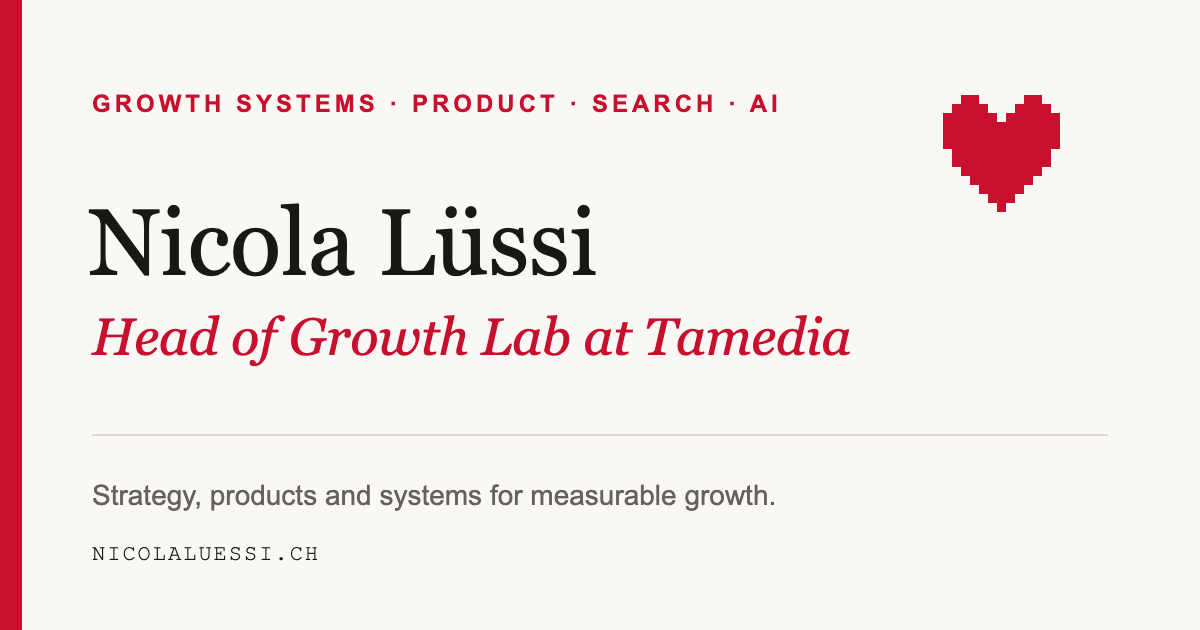
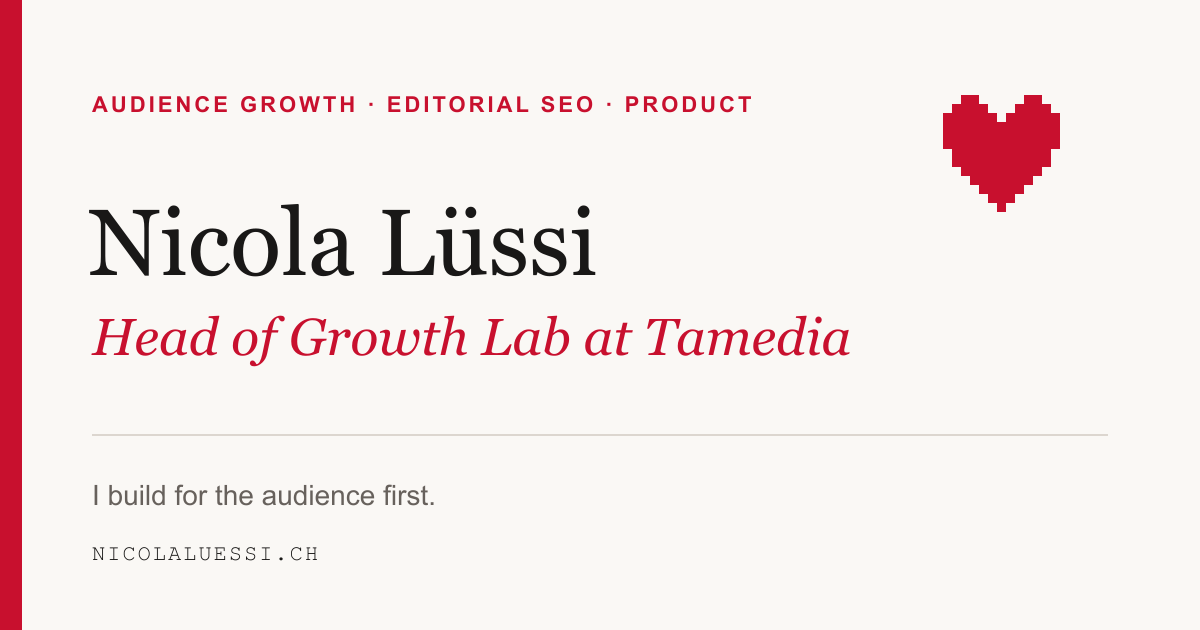
Rewrite English site in a direct voice

diff --git a/index.html b/index.html
@@ -4,30 +4,30 @@
   <meta charset="utf-8">
   <meta name="viewport" content="width=device-width, initial-scale=1">
   <title>Nicola Lüssi | Head of Growth Lab at Tamedia</title>
-  <meta name="description" content="Nicola Lüssi is Head of Growth Lab at Tamedia with deep expertise in Google Discover, SEO, audience growth, product and AI.">
+  <meta name="description" content="Nicola Lüssi leads Tamedia's Growth Lab and works across audience growth, editorial SEO, product, automation and AI.">
   <meta name="author" content="Nicola Lüssi">
   <meta name="theme-color" content="#c8102e">
 
   <link rel="canonical" href="https://nicolaluessi.ch/">
 
   <meta property="og:type" content="profile">
-  <meta property="og:title" content="Nicola Lüssi | Growth, Search, Product &amp; AI">
-  <meta property="og:description" content="Head of Growth Lab at Tamedia with deep expertise in Google Discover, SEO, audience growth, product and AI.">
+  <meta property="og:title" content="Nicola Lüssi | Audience Growth, Editorial SEO &amp; Product">
+  <meta property="og:description" content="Nicola Lüssi leads Tamedia's Growth Lab and works across audience growth, editorial SEO, product, automation and AI.">
   <meta property="og:url" content="https://nicolaluessi.ch/">
   <meta property="og:site_name" content="Nicola Lüssi">
   <meta property="og:locale" content="en_US">
   <meta property="og:image" content="https://nicolaluessi.ch/og-image.png">
   <meta property="og:image:width" content="1200">
   <meta property="og:image:height" content="630">
-  <meta property="og:image:alt" content="Nicola Lüssi | growth, search, product and AI">
+  <meta property="og:image:alt" content="Nicola Lüssi | audience growth, editorial SEO and product">
   <meta property="profile:first_name" content="Nicola">
   <meta property="profile:last_name" content="Lüssi">
 
   <meta name="twitter:card" content="summary_large_image">
-  <meta name="twitter:title" content="Nicola Lüssi | Growth, Search, Product &amp; AI">
-  <meta name="twitter:description" content="Head of Growth Lab at Tamedia with deep expertise in Google Discover, SEO, audience growth, product and AI.">
+  <meta name="twitter:title" content="Nicola Lüssi | Audience Growth, Editorial SEO &amp; Product">
+  <meta name="twitter:description" content="Nicola Lüssi leads Tamedia's Growth Lab and works across audience growth, editorial SEO, product, automation and AI.">
   <meta name="twitter:image" content="https://nicolaluessi.ch/og-image.png">
-  <meta name="twitter:image:alt" content="Nicola Lüssi | growth, search, product and AI">
+  <meta name="twitter:image:alt" content="Nicola Lüssi | audience growth, editorial SEO and product">
 
   <link rel="icon" href="/favicon.png" type="image/png">
   <link rel="apple-touch-icon" href="/apple-touch-icon.png">
@@ -52,7 +52,7 @@
         "@id": "https://nicolaluessi.ch/#webpage",
         "url": "https://nicolaluessi.ch/",
         "name": "Nicola Lüssi | Head of Growth Lab at Tamedia",
-        "description": "Profile of Nicola Lüssi, Head of Growth Lab at Tamedia and a growth leader working across strategy, product, search, data and AI.",
+        "description": "Profile of Nicola Lüssi, Head of Growth Lab at Tamedia, working across audience growth, editorial SEO, product, automation and AI.",
         "inLanguage": "en",
         "dateCreated": "2026-03-25T11:02:04+01:00",
         "dateModified": "2026-07-29T09:36:51+02:00",
@@ -72,7 +72,7 @@
           "caption": "Portrait of Nicola Lüssi"
         },
         "jobTitle": "Head of Growth Lab",
-        "description": "Growth leader building teams, products and operating systems across strategy, search, data, automation and AI.",
+        "description": "Head of Growth Lab at Tamedia, working across audience growth, editorial SEO, product, automation and AI.",
         "worksFor": {
           "@type": "Organization",
           "name": "Tamedia",
@@ -91,29 +91,43 @@
             "url": "https://www.fhnw.ch/"
           }
         ],
-        "hasCredential": {
-          "@type": "EducationalOccupationalCredential",
-          "name": "Bachelor of Science FHNW in Business Administration (International Management)",
-          "credentialCategory": "degree",
-          "description": "Final grade 5.3 out of 6.0. Bachelor thesis grade 6.0 out of 6.0 on the Swiss grading scale.",
-          "recognizedBy": {
-            "@type": "CollegeOrUniversity",
-            "name": "University of Applied Sciences and Arts Northwestern Switzerland",
-            "alternateName": "FHNW",
-            "url": "https://www.fhnw.ch/"
+        "hasCredential": [
+          {
+            "@type": "EducationalOccupationalCredential",
+            "name": "Bachelor of Science FHNW in Business Administration (International Management)",
+            "credentialCategory": "degree",
+            "description": "Final grade 5.3 out of 6.0. Bachelor thesis grade 6.0 out of 6.0 on the Swiss grading scale.",
+            "recognizedBy": {
+              "@type": "CollegeOrUniversity",
+              "name": "University of Applied Sciences and Arts Northwestern Switzerland",
+              "alternateName": "FHNW",
+              "url": "https://www.fhnw.ch/"
+            }
+          },
+          {
+            "@type": "EducationalOccupationalCredential",
+            "name": "Cambridge English: C2 Proficiency",
+            "credentialCategory": "certificate",
+            "description": "Score 222. Issued February 2022.",
+            "recognizedBy": {
+              "@type": "Organization",
+              "name": "Cambridge English",
+              "url": "https://www.cambridgeenglish.org/"
+            }
           }
-        },
+        ],
         "knowsLanguage": ["de", "en", "fr"],
         "knowsAbout": [
-          "Growth strategy",
+          "Audience growth",
+          "Editorial SEO",
           "Product development",
           "Search engine optimization",
           "Google Discover",
           "Data-driven experimentation",
           "Artificial intelligence",
           "Automation",
-          "Organizational change",
-          "Audience development"
+          "Community building",
+          "E-commerce"
         ],
         "award": "INMA 30 Under 30 Award in Management (2025)",
         "sameAs": [
@@ -146,7 +160,7 @@
     </a>
     <nav class="primary-nav" aria-label="Main navigation">
       <a href="#about">About</a>
-      <a href="#impact">Impact</a>
+      <a href="#impact">Work</a>
       <a href="#experience">Experience</a>
       <a href="#contact">Contact</a>
     </nav>
@@ -155,11 +169,11 @@
   <main id="main">
     <section class="hero" aria-labelledby="hero-title">
       <div class="hero-copy">
-        <p class="eyebrow">Growth systems · Product thinking · Search &amp; AI</p>
-        <h1 id="hero-title">Turning complex growth problems into <em>systems that scale.</em></h1>
-        <p class="hero-intro">I lead the Growth Lab at Tamedia, building teams, products, workflows and experiments where content, data and technology meet. My strongest work makes expertise usable across an organisation instead of trapping it in one specialist function.</p>
+        <p class="eyebrow">Audience growth · Editorial SEO · Product &amp; automation</p>
+        <h1 id="hero-title">I build for <em>the audience first.</em></h1>
+        <p class="hero-intro">I lead the Growth Lab at Tamedia. We find audience opportunities, test ideas and turn the useful ones into products, workflows and everyday practice. My background is in editorial SEO, community building and e-commerce.</p>
         <div class="hero-actions">
-          <a class="button button-primary" href="#impact">See the evidence</a>
+          <a class="button button-primary" href="#impact">See the work</a>
           <a class="button button-secondary" href="mailto:me@nicolaluessi.ch">Get in touch</a>
         </div>
       </div>
@@ -209,41 +223,41 @@
 
     <section class="section about" id="about" aria-labelledby="about-title">
       <div class="section-heading">
-        <p class="eyebrow">About</p>
-        <h2 id="about-title">I build systems that make growth repeatable.</h2>
+        <p class="eyebrow">Profile</p>
+        <h2 id="about-title">About Nicola Lüssi</h2>
       </div>
       <div class="about-layout">
         <div class="about-copy">
-          <p>My work is grounded in news media, but the underlying problems are not media-specific: finding demand, building useful products, automating workflows, changing behaviour and scaling what works.</p>
-          <p>I came to growth by building for specific audiences. I co-founded Hockey News Schweiz and built its Swiss ice-hockey community on social media, ran an e-commerce business and worked across content, marketing and search. The common thread was starting with the audience rather than my own preferences: understanding demand, then building something people would actually use.</p>
-          <p>I am based in Switzerland and work comfortably across German, English and French. I care about clear thinking, direct feedback and outcomes that survive beyond the original project team.</p>
+          <p>My work sits between editorial, data and product. I look for real audience problems, test useful responses and put what works into daily use.</p>
+          <p>My route into growth was not conventional. I co-founded Hockey News Schweiz and built a Swiss ice-hockey community on Facebook and Instagram. I later co-founded and ran Ballers, a sports-merchandise e-commerce business. The product was never the starting point. The audience was.</p>
+          <p>I am based in Switzerland and work in German, English and French. I prefer clear thinking, direct feedback and work that remains useful after the project is over.</p>
         </div>
         <dl class="about-facts">
           <div><dt>Based in</dt><dd>Switzerland</dd></div>
           <div><dt>Languages</dt><dd>German · English · French</dd></div>
-          <div><dt>Working across</dt><dd>Strategy · Product · Data · AI</dd></div>
-          <div><dt>Operating principle</dt><dd>Hypothesise · Test · Implement · Scale</dd></div>
+          <div><dt>Working across</dt><dd>Editorial · Data · Product · Search</dd></div>
+          <div><dt>How I work</dt><dd>Understand · Test · Build · Improve</dd></div>
         </dl>
       </div>
     </section>
 
     <section class="section" id="impact" aria-labelledby="impact-title">
       <div class="section-heading">
-        <p class="eyebrow">Selected impact</p>
-        <h2 id="impact-title">Proof before promises.</h2>
-        <p>The work matters more than the title. These are the projects that best show how I approach growth.</p>
+        <p class="eyebrow">Work</p>
+        <h2 id="impact-title">Selected work</h2>
+        <p>These four projects show what I have built and how I work.</p>
       </div>
 
       <div class="impact-grid">
         <article class="impact-card impact-card-featured">
           <div class="card-number" aria-hidden="true">01</div>
-          <p class="card-kicker">Tamedia · SEO transformation</p>
-          <h3>Turning SEO from specialist knowledge into newsroom practice</h3>
-          <p>As Head SEO, I led one evolving core team while building editorial SEO practices from the ground up across other Tamedia newsrooms and brands. This covered hiring, role design, rules, concepts and operating models. I also led Tamedia’s eight-week “Reach Offensive”. We then institutionalised it as an ongoing cross-functional Reach Team, which I helped conceptualise and build, including its roles, responsibilities, workflows and shift design. More than 600 journalists and producers were trained and supported with dashboards and CMS-integrated tools.</p>
+          <p class="card-kicker">Tamedia · Editorial SEO</p>
+          <h3>Editorial SEO across Tamedia</h3>
+          <p>As Head SEO, I built editorial SEO practices from the ground up across Tamedia newsrooms and brands. That included roles, guidelines, workflows, training, dashboards and CMS-integrated tools. I led the eight-week “Reach Offensive” and helped establish the permanent cross-functional Reach Team that followed. More than 600 journalists and producers were trained.</p>
           <ul class="outcome-list">
             <li><strong>Editorial SEO practices</strong> built from the ground up across newsrooms and brands</li>
             <li><strong>600+ participants</strong> across editorial teams</li>
-            <li><strong>Ongoing Reach Team</strong> established beyond the eight-week launch</li>
+            <li><strong>Permanent Reach Team</strong> established after the eight-week initiative</li>
           </ul>
           <a class="text-link" href="https://www.inma.org/blogs/main/post.cfm/inma-recognises-global-news-media-s-next-generation-in-30-under-30-awards" target="_blank" rel="noopener noreferrer">
             Read the independent INMA profile <span aria-hidden="true">↗</span>
@@ -253,18 +267,18 @@
         <article class="impact-card">
           <div class="card-number" aria-hidden="true">02</div>
           <p class="card-kicker">Tamedia · Growth Lab</p>
-          <h3>Expanding from search optimisation to audience growth</h3>
-          <p>In 2026, I took the lead of Tamedia's newly founded Growth Lab. The team combines editorial expertise, content strategy, data and product thinking to identify audience opportunities, formulate hypotheses, test ideas and transfer what works into daily operations.</p>
+          <h3>Building the Growth Lab</h3>
+          <p>In 2026, I became Head of Tamedia's newly created Growth Lab. We work across editorial, content strategy, data and product to find audience opportunities, test ideas and put the useful ones into practice.</p>
           <ul class="tag-list" aria-label="Topics">
-            <li>Strategy</li><li>Experimentation</li><li>Leadership</li>
+            <li>Audience growth</li><li>Experiments</li><li>Product</li>
           </ul>
         </article>
 
         <article class="impact-card">
           <div class="card-number" aria-hidden="true">03</div>
           <p class="card-kicker">Tamedia · Briefing Kitchen</p>
-          <h3>Turning fragmented signals into one daily editorial decision layer</h3>
-          <p>Briefing Kitchen began as my idea. I laid its foundation, my team developed it into what it is today, and I remain responsible for it. The AI-assisted Slack briefing serves the Newsdesk and is visible to the wider editorial organisation. It combines Search and Discover performance with NewzDash, Google Trends, Wikipedia, Reddit, YouTube and news-sitemap data, then highlights gaps between audience demand and existing coverage.</p>
+          <h3>Briefing Kitchen</h3>
+          <p>I initiated Briefing Kitchen and laid the foundation. My team developed it further, and I remain responsible for it. The AI-assisted Slack briefing is built for the Newsdesk and visible to the wider editorial organisation. It combines Search and Discover performance with NewzDash, Google Trends, Wikipedia, Reddit, YouTube and news-sitemap data. It shows where audience demand is not yet matched by our coverage.</p>
           <ul class="tag-list" aria-label="Topics">
             <li>AI workflows</li><li>Automation</li><li>Slack delivery</li>
           </ul>
@@ -273,10 +287,10 @@
         <article class="impact-card">
           <div class="card-number" aria-hidden="true">04</div>
           <p class="card-kicker">Entrepreneurship · 2015 to 2025</p>
-          <h3>Building communities and commerce outside the newsroom</h3>
-          <p>I co-founded Hockey News Schweiz, a social-first Swiss ice-hockey brand built mainly on Facebook and Instagram. For a short period, it also ran its own news website. I also co-founded and operated Ballers, a sports-merchandise e-commerce venture, from 2019 to 2025.</p>
+          <h3>Hockey News Schweiz and Ballers</h3>
+          <p>I co-founded Hockey News Schweiz and built a Swiss ice-hockey community mainly on Facebook and Instagram. We briefly operated a separate news website, but social media remained the core. I later co-founded Ballers and ran the sports-merchandise e-commerce business from 2019 to 2025. In both cases, the audience came before the product.</p>
           <ul class="tag-list" aria-label="Topics">
-            <li>Community</li><li>E-commerce</li><li>Brand building</li>
+            <li>Social media</li><li>E-commerce</li><li>Community</li>
           </ul>
           <nav class="card-links" aria-label="Venture profiles">
             <a href="https://www.instagram.com/ballers.ch/" target="_blank" rel="noopener noreferrer">Ballers on Instagram <span aria-hidden="true">↗</span></a>
@@ -288,9 +302,9 @@
 
     <section class="section section-tinted" id="experience" aria-labelledby="experience-title">
       <div class="section-heading">
-        <p class="eyebrow">Experience</p>
-        <h2 id="experience-title">Built by doing.</h2>
-        <p>A career across editorial growth, e-commerce, content and entrepreneurship.</p>
+        <p class="eyebrow">Career</p>
+        <h2 id="experience-title">Experience</h2>
+        <p>News media, e-commerce, marketing and entrepreneurship.</p>
       </div>
 
       <div class="timeline">
@@ -299,7 +313,7 @@
           <div>
             <h3>Head of Growth Lab</h3>
             <p class="timeline-org">Tamedia · Zurich</p>
-            <p>Leading a cross-functional audience-growth team across editorial, data, product and content strategy. The work runs from opportunity and hypothesis to experiment and operational handover.</p>
+            <p>Leading Tamedia's Growth Lab across editorial, data, product and content strategy. The work covers audience research, experiments, products and implementation.</p>
           </div>
         </article>
         <article class="timeline-item">
@@ -307,7 +321,7 @@
           <div>
             <h3>Head SEO</h3>
             <p class="timeline-org">Tamedia · Zurich</p>
-            <p>Led one core SEO team whose composition and remit evolved over time, while building editorial SEO practices from the ground up across other Tamedia newsrooms and brands. This covered hiring, role design, rules, concepts and operating models. Google Discover was a core part of the SEO remit. Expanded training, automated workflows, CMS tools, reporting, technical SEO and AI-assisted products.</p>
+            <p>Built and led an evolving SEO team while establishing editorial SEO practices from the ground up across Tamedia newsrooms and brands. The work covered Google Discover, training, editorial workflows, CMS tools, reporting, technical SEO and AI-assisted products.</p>
           </div>
         </article>
         <article class="timeline-item">
@@ -362,47 +376,42 @@
 
     <section class="section" id="capabilities" aria-labelledby="capabilities-title">
       <div class="section-heading">
-        <p class="eyebrow">Capabilities</p>
-        <h2 id="capabilities-title">Where I create leverage.</h2>
+        <p class="eyebrow">Focus</p>
+        <h2 id="capabilities-title">What I work on</h2>
       </div>
       <div class="capability-grid">
         <article>
           <span class="capability-index">01</span>
-          <h3>Growth strategy and systems</h3>
-          <p>Opportunity mapping, hypothesis design, prioritisation, experiments, operating models and repeatable handovers.</p>
+          <h3>Audience growth and experimentation</h3>
+          <p>Finding audience problems, turning them into testable ideas and bringing useful results into daily work.</p>
         </article>
         <article>
           <span class="capability-index">02</span>
-          <h3>Product and automation</h3>
-          <p>Turning recurring problems into useful tools, briefings, dashboards and AI-assisted workflows rather than more manual work.</p>
+          <h3>Editorial SEO and Google Discover</h3>
+          <p>Content and technical SEO, demand analysis, newsroom workflows, Google Discover and the changing search landscape around AI.</p>
         </article>
         <article>
           <span class="capability-index">03</span>
-          <h3>Google Discover and search</h3>
-          <p>Deep expertise in Google Discover alongside technical and content SEO, demand analysis, SERP strategy and the changing discovery landscape around AI.</p>
+          <h3>Product and automation</h3>
+          <p>Useful tools, briefings, dashboards and AI-assisted workflows for recurring editorial problems.</p>
         </article>
         <article>
           <span class="capability-index">04</span>
-          <h3>Organisational enablement</h3>
-          <p>Training, workshops, embedded tools and workflows that move specialist knowledge into everyday practice.</p>
+          <h3>Newsroom workflows and training</h3>
+          <p>Training, workshops and CMS-integrated tools that make specialist knowledge useful in daily newsroom work.</p>
         </article>
         <article>
           <span class="capability-index">05</span>
-          <h3>Cross-functional leadership</h3>
-          <p>Building teams and aligning content, product, data, technology and management around a shared definition of impact.</p>
-        </article>
-        <article>
-          <span class="capability-index">06</span>
           <h3>Entrepreneurship</h3>
-          <p>Ten years of practical experience in community building, e-commerce, customer acquisition and operations.</p>
+          <p>Ten years of building and operating a social-media community and an e-commerce business.</p>
         </article>
       </div>
     </section>
 
     <section class="section education" aria-labelledby="education-title">
       <div class="section-heading">
-        <p class="eyebrow">Education</p>
-        <h2 id="education-title">Formal learning, practical application.</h2>
+        <p class="eyebrow">Background</p>
+        <h2 id="education-title">Education and credentials</h2>
       </div>
       <div class="education-grid">
         <article>
@@ -417,12 +426,20 @@
           <p class="education-note">My thesis examined governance for AI-supported content creation. It contributed to later process reviews, and parts of its operating logic are reflected in live workflows. The framework itself was not implemented wholesale.</p>
           <a href="https://studierendenprojekte.wirtschaft.fhnw.ch/view/4086" target="_blank" rel="noopener noreferrer">View the published thesis record <span aria-hidden="true">↗</span></a>
         </article>
+        <article>
+          <p class="timeline-date">Issued Feb 2022</p>
+          <h3>Cambridge English: C2 Proficiency</h3>
+          <p class="education-grade">
+            <span>Score <strong>222</strong></span>
+            <span>CEFR level <strong>C2</strong></span>
+          </p>
+        </article>
       </div>
 
       <section class="recognition-block" aria-labelledby="recognition-title">
         <div class="section-heading">
-          <p class="eyebrow">Recognition &amp; contribution</p>
-          <h2 id="recognition-title">Credibility beyond the job title.</h2>
+          <p class="eyebrow">Recognition</p>
+          <h2 id="recognition-title">Recognition and industry contribution</h2>
         </div>
         <div class="recognition-grid">
           <article class="award-card">
@@ -448,9 +465,9 @@
     </section>
 
     <section class="contact" id="contact" aria-labelledby="contact-title">
-      <p class="eyebrow">Contact</p>
-      <h2 id="contact-title">Let's talk about useful growth.</h2>
-      <p>Growth systems, search, AI-assisted products, automation and team building. Or the uncomfortable question your dashboard is avoiding.</p>
+      <p class="eyebrow">Get in touch</p>
+      <h2 id="contact-title">Contact</h2>
+      <p>If you want to talk about audience growth, editorial SEO, product or automation, email me.</p>
       <div class="contact-links">
         <a class="button button-light" href="mailto:me@nicolaluessi.ch">me@nicolaluessi.ch</a>
         <a class="button button-outline-light" href="https://www.linkedin.com/in/nicolaluessi/" target="_blank" rel="noopener noreferrer">LinkedIn <span aria-hidden="true">↗</span></a>
@@ -460,7 +477,7 @@
 
   <footer class="site-footer">
     <p>© 2026 Nicola Lüssi</p>
-    <p>Start with a hypothesis. Test it. Implement what works. Then scale it.</p>
+    <p>Understand the audience. Test the idea. Build what works.</p>
   </footer>
 </body>
 </html>

diff --git a/css/style.css b/css/style.css
@@ -658,6 +658,10 @@ a {
   font-size: 0.92rem;
 }
 
+.capability-grid article:last-child {
+  grid-column: span 2;
+}
+
 .education {
   padding-top: 62px;
 }
@@ -918,6 +922,10 @@ a {
   }
 
   .impact-card-featured {
+    grid-column: auto;
+  }
+
+  .capability-grid article:last-child {
     grid-column: auto;
   }
 
